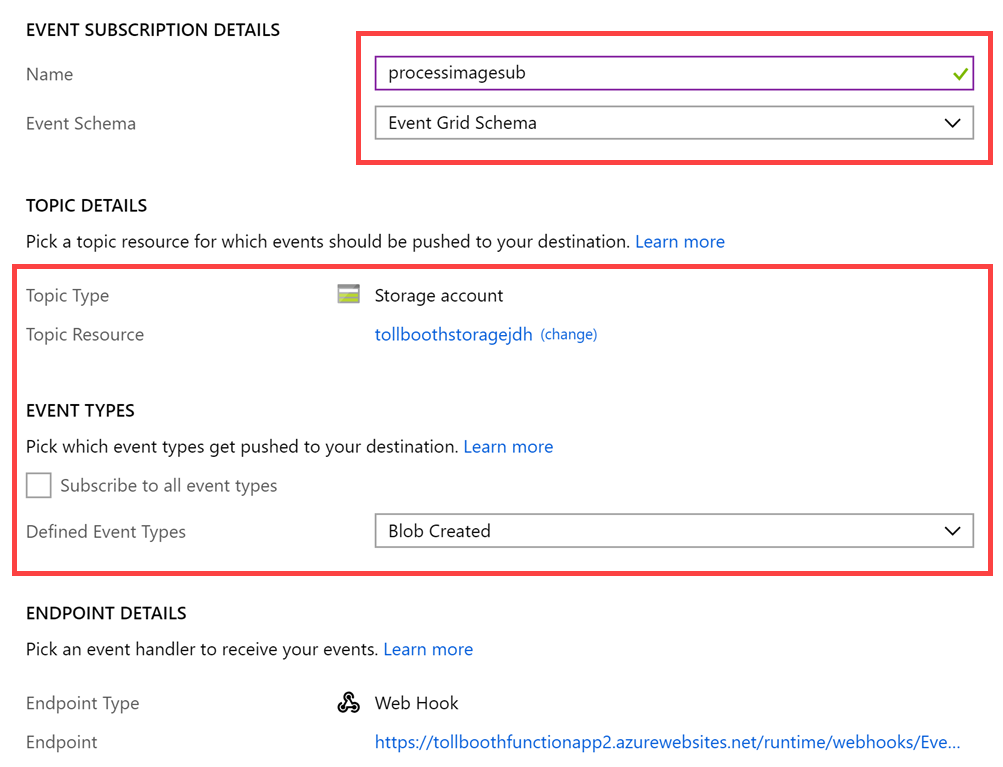
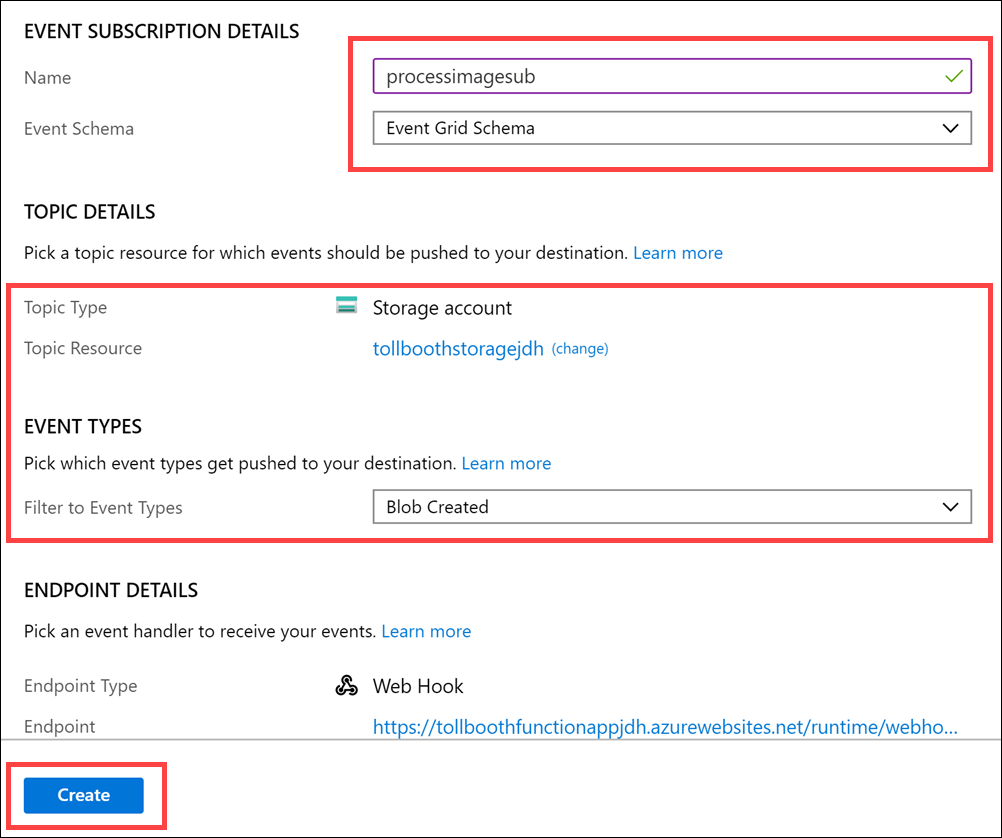
November test/fix

diff --git a/Hands-on lab/HOL step-by-step - Serverless architecture.md b/Hands-on lab/HOL step-by-step - Serverless architecture.md
@@ -9,7 +9,7 @@ Hands-on lab step-by-step
 </div>
 
 <div class="MCWHeader3">
-September 2019
+November 2019
 </div>
 
 Information in this document, including URL and other Internet Web site references, is subject to change without notice. Unless otherwise noted, the example companies, organizations, products, domain names, e-mail addresses, logos, people, places, and events depicted herein are fictitious, and no association with any real company, organization, product, domain name, e-mail address, logo, person, place or event is intended or should be inferred. Complying with all applicable copyright laws is the responsibility of the user. Without limiting the rights under copyright, no part of this document may be reproduced, stored in or introduced into a retrieval system, or transmitted in any form or by any means (electronic, mechanical, photocopying, recording, or otherwise), or for any purpose, without the express written permission of Microsoft Corporation.
@@ -172,9 +172,9 @@ In this exercise, you will provision a blob storage account using the Hot tier, 
 
 7. Paste the value into a text editor, such as Notepad, for later reference.
 
-8. Select **Blobs** under **Blob Service** in the menu. Then select the **+ Container** button to add a new container. In the **Name** field, enter **images**, select **Private (no anonymous access)** for the public access level, then select **OK** to save.
+8. Select **Containers** under **Blob Service** in the menu. Then select the **+ Container** button to add a new container. In the **Name** field, enter **images**, select **Private (no anonymous access)** for the public access level, then select **OK** to save.
 
-    ![In the Storage blade, under Settings, Containers is selected. In the Containers blade, the + (add icon) Container button is selected. Below, the Name field displays images, and the Public access level is set to Private (no anonymous access).](media/image16.png 'Storage and Containers blade')
+    ![In the Storage blade, under Settings, Containers is selected. In the Containers blade, the + (add icon) Container button is selected. Below, the Name field displays images, and the Public access level is set to Private (no anonymous access).](media/storage-new-container-images.png 'Storage and Containers blade')
 
 9. Repeat these steps to create a container named **export**.
 
@@ -190,55 +190,79 @@ In this exercise, you will provision a blob storage account using the Hot tier, 
 
 3. Select the **Create** button on the **Function App overview** blade.
 
-4. On the **Create Function App** blade, specify the following configuration options:
+4. Within the **Create Function App** *Basics* blade, specify the following configuration options:
 
-    a. **Name**: Unique value for the App name (ensure the green check mark appears). Provide a name similar to **TollBoothFunctionApp**.
+    a. **Subscription**: Select your Azure subscription for this lab.
 
-    b. Specify the Resource Group **ServerlessArchitecture**.
+    b. **Resource Group**: Select **ServerlessArchitecture**.
 
-    c. For **OS**, ensure **Windows** is selected.
+    c. **Name**: Unique value for the App name (ensure the green check mark appears). Provide a name similar to **TollBoothFunctionApp**.
 
-    d. For hosting plan, select the **Consumption Plan**.
+    d. **Publish**: Select **Code**.
 
-    e. Select the same **location** as your Resource Group.
+    e. **Runtime stack**: Select **.NET Core**.
 
-    f. For Runtime stack, select **.NET Core**.
+    f. **Region**: Select the region you are using for this lab, or the closest available one.
 
-    g. Leave the **storage** option as **create new**.
+    ![Fields in the Function App Basics blade are set to the previously defined settings.](media/new-functionapp-net-basics.png 'Function App Basics blade')
 
-    h. Ensure **Disabled** is selected for **Application Insights** (we'll add this later).
+5. Select **Next: Hosting >**.
 
-    ![Fields in the Function App blade are set to the previously defined settings.](media/new-functionapp-net.png 'Function App blade')
+6. Within the **Hosting** blade, specify the following configuration options:
 
-5. Select **Create**.
+    a. **Storage account**: Leave this option as **create new**.
 
-    ![Screenshot of the Create button.](media/image13.png 'Create button')
+    b. **Operating system**: Select **Windows**.
 
-6. **Repeat steps 1-3** to create a second Function App.
+    c. **Plan type**: Select **Consumption**.
 
-7. On the **Create Function App** blade, specify the following configuration options:
+    ![Fields in the Function App Hosting blade are set to the previously defined settings.](media/new-functionapp-net-hosting.png "Function App Hosting blade")
 
-    a. **Name**: Unique value for the App name (ensure the green check mark appears). Provide a name similar to **TollBoothEvents**.
+7. Select **Next: Monitoring >**.
 
-    b. Specify the Resource Group **ServerlessArchitecture**.
+    a. **Enable Application Insights**: Select **No** (we'll ad this later).
 
-    c. For **OS**, select the **Windows**.
+    ![Fields in the Function App Monitoring blade are set to the previously defined settings.](media/new-functionapp-net-monitoring.png "Function App Monitoring blade")
 
-    d. For hosting plan, select the **Consumption Plan**.
+8. Select **Review + create**, then select **Create** to provision the new Function App.
 
-    e. Select the same **location** as your Resource Group.
+9. **Repeat steps 1-3** to create a second Function App.
 
-    f. For Runtime stack, select **Node.js**.
+10. Within the **Create Function App** *Basics* blade, specify the following configuration options:
 
-    g. Leave the **storage** option as **create new**.
+    a. **Subscription**: Select your Azure subscription for this lab.
 
-    h. Ensure **Disabled** is selected for **Application Insights** (we'll add this later).
+    b. **Resource Group**: Select **ServerlessArchitecture**.
 
-    ![Fields in the Function App blade are set to the previously defined settings.](media/new-functionapp-nodejs.png 'Function App blade')
+    c. **Name**: Unique value for the App name (ensure the green check mark appears). Provide a name similar to **TollBoothEvents**.
 
-8. Select **Create**.
+    d. **Publish**: Select **Code**.
 
-    ![Screenshot of the Create button.](media/image13.png 'Create button')
+    e. **Runtime stack**: Select **Node.js**.
+
+    f. **Region**: Select the region you are using for this lab, or the closest available one.
+
+    ![Fields in the Function App Basics blade are set to the previously defined settings.](media/new-functionapp-nodejs-basics.png 'Function App Basics blade')
+
+11. Select **Next: Hosting >**.
+
+12. Within the **Hosting** blade, specify the following configuration options:
+
+    a. **Storage account**: Leave this option as **create new**.
+
+    b. **Operating system**: Select **Windows**.
+
+    c. **Plan type**: Select **Consumption**.
+
+    ![Fields in the Function App Hosting blade are set to the previously defined settings.](media/new-functionapp-net-hosting.png "Function App Hosting blade")
+
+13. Select **Next: Monitoring >**.
+
+    a. **Enable Application Insights**: Select **No** (we'll ad this later).
+
+    ![Fields in the Function App Monitoring blade are set to the previously defined settings.](media/new-functionapp-net-monitoring.png "Function App Monitoring blade")
+
+14. Select **Review + create**, then select **Create** to provision the new Function App.
 
 ### Task 3: Provision the Event Grid topic
 
@@ -433,11 +457,8 @@ Azure Key Vault is used to securely store all secrets, such as database connecti
     |                          |                                                                                                                                                             |
     | ------------------------ | :---------------------------------------------------------------------------------------------------------------------------------------------------------: |
     | **Name**      |                                                                          **Value**                                                                          |
-    | computerVisionApiUrl     | Computer Vision API endpoint you copied earlier. Append **vision/v2.0/ocr** to the end. Example: `https://<YOUR-SERVICE-NAME>.cognitiveservices.azure.com/vision/v2.0/ocr` |
     | computerVisionApiKey     |                                                                   Computer Vision API key                                                                   |
-    | eventGridTopicEndpoint   |                                                                  Event Grid Topic endpoint                                                                  |
     | eventGridTopicKey        |                                                                 Event Grid Topic access key                                                                 |
-    | cosmosDBEndPointUrl      |                                                                        Cosmos DB URI                                                                        |
     | cosmosDBAuthorizationKey |                                                                    Cosmos DB Primary Key                                                                    |
     | blobStorageConnection    |                                                               Blob storage connection string                                                                |
 
@@ -468,6 +489,15 @@ When you set the App Settings for the Function App in the next section below, yo
     For example, a complete reference would look like the following:
 
     `@Microsoft.KeyVault(SecretUri=https://tollboothvault.vault.azure.net/secrets/blobStorageConnection/d6ea0e39236348539dc33565e031afc3)`
+
+When you are done creating the values, you should have a list similar to the following:
+
+```text
+@Microsoft.KeyVault(SecretUri=https://tollboothvault.vault.azure.net/secrets/blobStorageConnection/771aa40adac64af0b2aefbd741bd46ef)
+@Microsoft.KeyVault(SecretUri=https://tollboothvault.vault.azure.net/secrets/computerVisionApiKey/ce228a43f40140dd8a9ffb9a25d042ee)
+@Microsoft.KeyVault(SecretUri=https://tollboothvault.vault.azure.net/secrets/cosmosDBAuthorizationKey/1f9a0d16ad22409b85970b3c794a218c)
+@Microsoft.KeyVault(SecretUri=https://tollboothvault.vault.azure.net/secrets/eventGridTopicKey/e310bcd71a72489f89b6112234fed815)
+```
 
 ## Exercise 2: Develop and publish the photo processing and data export functions
 
@@ -530,7 +560,7 @@ In order for your Function App to be able to access Key Vault to read the secret
 
     ![The Function App Identity value is set to On.](media/function-app-identity.png "Identity")
 
-### Task 3: Add Function Apps to Key Vault access policy
+### Task 3: Add Function App to Key Vault access policy
 
 Perform these steps to create an access policy that enables the "Get" secret permission:
 
@@ -554,7 +584,7 @@ Perform these steps to create an access policy that enables the "Get" secret per
 
     ![The Get checkbox is checked under the Secret permissions dropdown.](media/key-vault-get-secret-policy.png "Add access policy")
 
-7. Select **OK** to add the new access policy.
+7. Select **Add** to add the new access policy.
 
 8. When you are done, you should have an access policy for the Function App's managed identity. Select **Save** to finish the process.
 
@@ -566,7 +596,7 @@ There are a few components within the starter project that must be completed, ma
 
 > **Note:** Do **NOT** update the version of any NuGet package. This solution is built to function with the NuGet package versions currently defined within. Updating these packages to newer versions could cause unexpected results.
 
-1. Navigate to the **TollBooth** project (/hands-on-lab/starts/TollBooth/TollBooth.sln) using the Solution Explorer of Visual Studio.
+1. Navigate to the **TollBooth** project (`/hands-on-lab/starts/TollBooth/TollBooth.sln`) using the Solution Explorer of Visual Studio.
 
 2. From the Visual Studio **View** menu, select **Task List**.
 
@@ -636,7 +666,7 @@ In this task, you will publish the Function App from the starter project in Visu
 
     > **Note**: If prompted to update the functions version on Azure, select **Yes**.
 
-7. Watch the Output window in Visual Studio as the Function App publishes. When it is finished, you should see a message that says, `========== Publish: 1 succeeded, 0 failed, 0 skipped ==========`.
+7. Select **Publish** to start the process. Watch the Output window in Visual Studio as the Function App publishes. When it is finished, you should see a message that says, `========== Publish: 1 succeeded, 0 failed, 0 skipped ==========`.
 
 8. Using a new tab or instance of your browser navigate to the Azure portal, <http://portal.azure.com>.
 
@@ -694,7 +724,7 @@ In this task, you will create a new Node.js function triggered by Event Grid and
 
 3. In the blade menu, select **Functions**, the select **+ New Function**.
 
-    ![In the TollBoothEvents2 blade, in the pane under Function Apps, TollBoothEvents2 is expanded, and Functions is selected. In the pane, the + New function button is selected.](media/image43.png 'TollBoothEvents2 blade')
+    ![In the TollBoothEvents2 blade, in the pane under Function Apps, TollBoothEvents2 is expanded, and Functions is selected. In the pane, the + New function button is selected.](media/function-app-events-overview.png 'TollBoothEvents2 blade')
 
 4. Select **In-portal** within the _Choose a development environment_ step, then select **Continue**.
 
@@ -758,9 +788,11 @@ In this task, you will add an Event Grid subscription to the SavePlateData funct
 
     e. For resource, select your recently created Event Grid.
 
-    f. For Event Types, leave empty as you will enter a custom event type later.
+    f. For Event Types, select **Add Event Type**.
 
-    g. Leave Web Hook as the Endpoint Type.
+    g. Enter `savePlateData` for the new event type value. This will ensure this function is only triggered by this Event Grid type.
+
+    h. Leave Web Hook as the Endpoint Type.
 
 3. Leave the remaining fields at their default values and select **Create**.
 
@@ -854,7 +886,7 @@ In this task, you will add an Event Grid subscription to the QueuePlateForManual
 
     a. **Name**: Unique value for the App name similar to **queueplateformanualcheckupsub** (ensure the green check mark appears).
 
-    b. **Event Schema**: Select Event Grid Schema.
+    b. **Event Schema**: Select **Event Grid Schema**.
 
     c. For **Topic Type**, select **Event Grid Topics**.
 
@@ -862,7 +894,11 @@ In this task, you will add an Event Grid subscription to the QueuePlateForManual
 
     e. For resource, select your recently created Event Grid.
 
-    f. Leave Web Hook as the Endpoint Type.
+    f. For Event Types, select **Add Event Type**.
+
+    g. Enter `queuePlateForManualCheckup` for the new event type value. This will ensure this function is only triggered by this Event Grid type.
+
+    h. Leave Web Hook as the Endpoint Type.
 
 3. Leave the remaining fields at their default values and select **Create**.
 
@@ -889,38 +925,6 @@ In this task, you will add an Azure Cosmos DB output binding to the QueuePlateFo
     ![In the Azure Cosmos DB output form, the following field values display: Document parameter name, outputDocument; Collection name, NeedsManualReview; Database name, LicensePlates; Azure Cosmos DB account connection, tollbooths_DOCUMENTDB.](media/manualcheckup-cosmos-integration.png 'Azure Cosmos DB output form')
 
 4. Select **Save**.
-
-### Task 7: Configure custom event types for the new Event Grid subscriptions
-
-In this task, you will configure a custom event type for each new Event Grid subscription you created for your functions in the previous steps of this exercise. Currently the event types are set to All. We want to narrow this down to only the event types specified within the SendToEventGrid class in the TollBooth solution. This will ensure that all other event types are ignored by your functions.
-
-1. Using a new tab or instance of your browser navigate to the Azure portal, <http://portal.azure.com>.
-
-2. Open the **ServerlessArchitecture** resource group, then select your Event Grid Topic.
-
-3. At the bottom of the **Overview** blade, you will see both Event Grid subscriptions created from the functions. Select **saveplatedatasub**.
-
-    ![On the Event Grid Topic overview blade, select the saveplatedatasub Event Grid subscription.](media/image56.png)
-
-4. Select the **Filters** tab
-
-5. Select **Add Event Type**, then enter **savePlateData** into the event types field. If you specified a different name in the SendToEventGrid class in the TollBooth solution, use that instead.
-
-    ![The savePlateData event type has been added.](media/event-grid-saveplatedata.png 'Add event type')
-
-6. Select **Save**.
-
-7. Select the **queueplateformanualcheckupsub** Event Grid subscription at the bottom of the **Overview** blade.
-
-    ![On the Event Grid Topic overview blade, select the queueplateformanualcheckupsub Event Grid subscription.](media/image58.png)
-
-8. Select the **Filters** tab.
-
-9. Select **Add Event Type**, then enter **queuePlateForManualCheckup** into the event types field. If you specified a different name in the SendToEventGrid class in the TollBooth solution, use that instead.
-
-    ![The queuePlateForManualCheckup event type has been added.](media/manualcheckup-queue-filter.png "Add event type")
-
-10. Select **Save**.
 
 ## Exercise 4: Monitor your functions with Application Insights
 

diff --git a/README.md b/README.md
@@ -1,10 +1,10 @@
 # Serverless architecture
 
-Contoso is rapidly expanding their toll booth management business to operate in a much larger area. As this is not their primary business, which is online payment services, they are struggling with scaling up to meet the upcoming demand to extract license plate information from a large number of new tollbooths, using photos of vehicles uploaded to cloud storage. Currently, they have a manual process where they send batches of photos to a 3rd-party who manually transcodes the license plates to CSV files that they send back to Contoso to upload to their online processing system. 
+Contoso is rapidly expanding their toll booth management business to operate in a much larger area. As this is not their primary business, which is online payment services, they are struggling with scaling up to meet the upcoming demand to extract license plate information from a large number of new tollbooths, using photos of vehicles uploaded to cloud storage. Currently, they have a manual process where they send batches of photos to a 3rd-party who manually transcodes the license plates to CSV files that they send back to Contoso to upload to their online processing system.
 
 They want to automate this process in a way that is cost effective and scalable. They believe serverless is the best route for them, but do not have the expertise to build the solution.
 
-June 2019
+November 2019
 
 ## Target Audience
 
@@ -47,17 +47,18 @@ Cloud-Native Apps
 
 - [Serverless Web Application Reference Architecture](https://docs.microsoft.com/azure/architecture/reference-architectures/serverless/web-app)
 - [Serverless event processing using Azure Functions Reference Architecture](https://docs.microsoft.com/azure/architecture/reference-architectures/serverless/event-processing)
-- [MCW](https://github.com/Microsoft/MCW) 
+- [MCW](https://github.com/Microsoft/MCW)
 
 ## Help & Support
 
-We welcome feedback and comments from Microsoft SMEs & learning partners who deliver MCWs.  
+We welcome feedback and comments from Microsoft SMEs & learning partners who deliver MCWs.
 
-***Having trouble?***
+**_Having trouble?_**
+
 - First, verify you have followed all written lab instructions (including the Before the Hands-on lab document).
 - Next, submit an issue with a detailed description of the problem.
-- Do not submit pull requests. Our content authors will make all changes and submit pull requests for approval.   
+- Do not submit pull requests. Our content authors will make all changes and submit pull requests for approval.
 
-If you are planning to present a workshop, *review and test the materials early*! We recommend at least two weeks prior.
+If you are planning to present a workshop, _review and test the materials early_! We recommend at least two weeks prior.
 
 ### Please allow 5 - 10 business days for review and resolution of issues.

diff --git a/Whiteboard design session/WDS student guide - Serverless architecture.md b/Whiteboard design session/WDS student guide - Serverless architecture.md
@@ -9,7 +9,7 @@ Whiteboard design session student guide
 </div>
 
 <div class="MCWHeader3">
-September 2019
+November 2019
 </div>
 
 Information in this document, including URL and other Internet Web site references, is subject to change without notice. Unless otherwise noted, the example companies, organizations, products, domain names, e-mail addresses, logos, people, places, and events depicted herein are fictitious, and no association with any real company, organization, product, domain name, e-mail address, logo, person, place or event is intended or should be inferred. Complying with all applicable copyright laws is the responsibility of the user. Without limiting the rights under copyright, no part of this document may be reproduced, stored in or introduced into a retrieval system, or transmitted in any form or by any means (electronic, mechanical, photocopying, recording, or otherwise), or for any purpose, without the express written permission of Microsoft Corporation.
@@ -232,9 +232,9 @@ Directions: Tables reconvene with the larger group to hear the facilitator/SME s
 
 ## Additional references
 
-|                                                              |                                                                                                                                 |
-| ------------------------------------------------------------ | :-----------------------------------------------------------------------------------------------------------------------------: |
-| **Description**                                              |                                                            **Links**                                                            |
+|                                                              |                                                                                                                           |
+| ------------------------------------------------------------ | :-----------------------------------------------------------------------------------------------------------------------: |
+| **Description**                                              |                                                         **Links**                                                         |
 | Introduction to Azure Functions                              |                           <https://docs.microsoft.com/azure/azure-functions/functions-overview>                           |
 | What are Logic Apps?                                         |                       <https://docs.microsoft.com/azure/logic-apps/logic-apps-what-are-logic-apps>                        |
 | About Azure Cosmos DB                                        |                                 <https://docs.microsoft.com/azure/cosmos-db/introduction>                                 |

diff --git a/Hands-on lab/Before the HOL - Serverless architecture.md b/Hands-on lab/Before the HOL - Serverless architecture.md
@@ -9,7 +9,7 @@ Before the hands-on lab setup guide
 </div>
 
 <div class="MCWHeader3">
-September 2019
+November 2019
 </div>
 
 Information in this document, including URL and other Internet Web site references, is subject to change without notice. Unless otherwise noted, the example companies, organizations, products, domain names, e-mail addresses, logos, people, places, and events depicted herein are fictitious, and no association with any real company, organization, product, domain name, e-mail address, logo, person, place or event is intended or should be inferred. Complying with all applicable copyright laws is the responsibility of the user. Without limiting the rights under copyright, no part of this document may be reproduced, stored in or introduced into a retrieval system, or transmitted in any form or by any means (electronic, mechanical, photocopying, recording, or otherwise), or for any purpose, without the express written permission of Microsoft Corporation.
@@ -156,16 +156,16 @@ If you do not have a machine with Visual Studio Community 2019 (or greater) and 
 
 4. Unzip the contents to the folder **C:\\ServerlessMCW\\**.
 
-    ![The extraction path is highlighted.](media/zip-extract.png "Extract Compressed Folders")
+   ![The extraction path is highlighted.](media/zip-extract.png 'Extract Compressed Folders')
 
 5. Navigate to `C:\ServerlessMCW\MCW-Serverless-architecture-master\Hands-on lab\starter`.
 
 6. From the **TollBooth** folder, open the Visual Studio Solution file: **TollBooth.sln**. Notice the solution contains the following projects:
 
-- TollBooth
-- UploadImages
+   - TollBooth
+   - UploadImages
 
-> **Note**: The UploadImages project is used for uploading a handful of car photos for testing scalability of the serverless architecture.
+   > **Note**: The UploadImages project is used for uploading a handful of car photos for testing scalability of the serverless architecture.
 
 7. Switch to windows explorer, navigate back to the **starter** subfolder and open the **license plates** subfolder. It contains sample license plate photos used for testing out the solution. One of the photos is guaranteed to fail OCR processing, which is meant to show how the workload is designed to handle such failures. The **copyfrom** folder is used by the UploadImages project as a basis for the 1,000 photo upload option for testing scalability.
 

diff --git a/Whiteboard design session/WDS trainer guide - Serverless architecture.md b/Whiteboard design session/WDS trainer guide - Serverless architecture.md
@@ -9,7 +9,7 @@ Whiteboard design session trainer guide
 </div>
 
 <div class="MCWHeader3">
-September 2019
+November 2019
 </div>
 
 Information in this document, including URL and other Internet Web site references, is subject to change without notice. Unless otherwise noted, the example companies, organizations, products, domain names, e-mail addresses, logos, people, places, and events depicted herein are fictitious, and no association with any real company, organization, product, domain name, e-mail address, logo, person, place or event is intended or should be inferred. Complying with all applicable copyright laws is the responsibility of the user. Without limiting the rights under copyright, no part of this document may be reproduced, stored in or introduced into a retrieval system, or transmitted in any form or by any means (electronic, mechanical, photocopying, recording, or otherwise), or for any purpose, without the express written permission of Microsoft Corporation.
